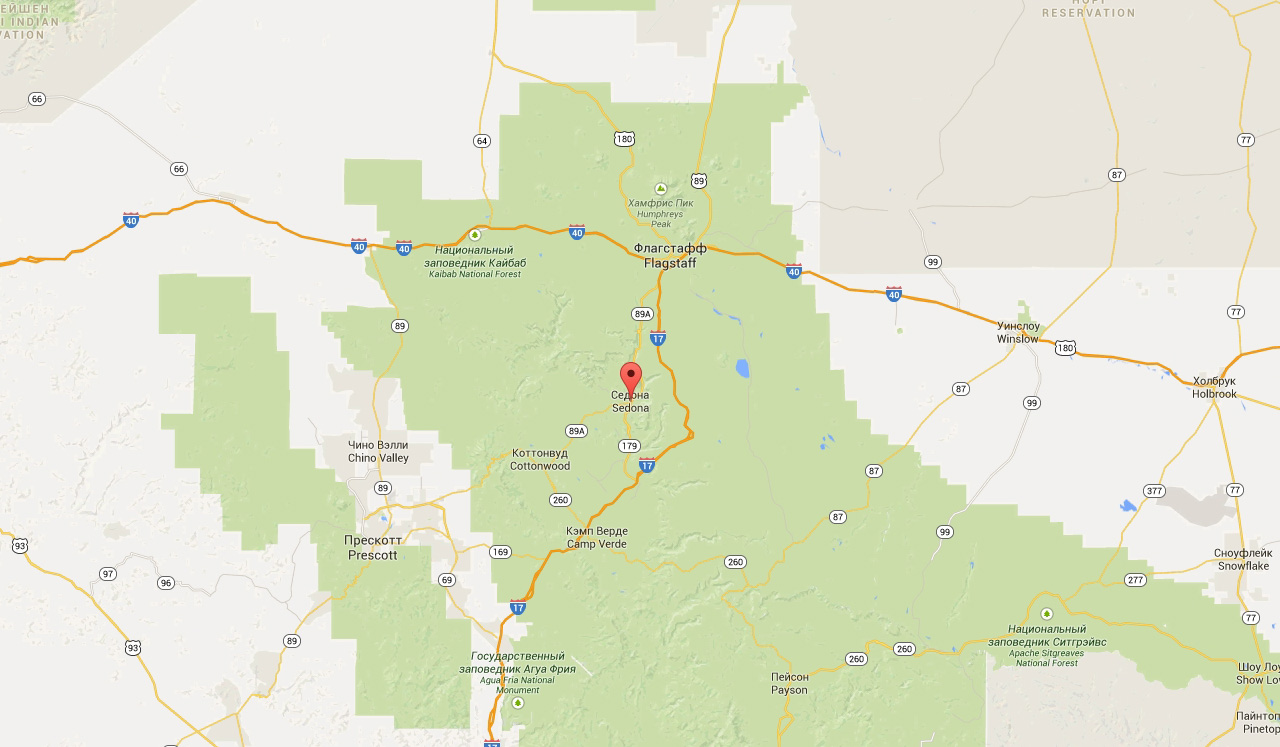
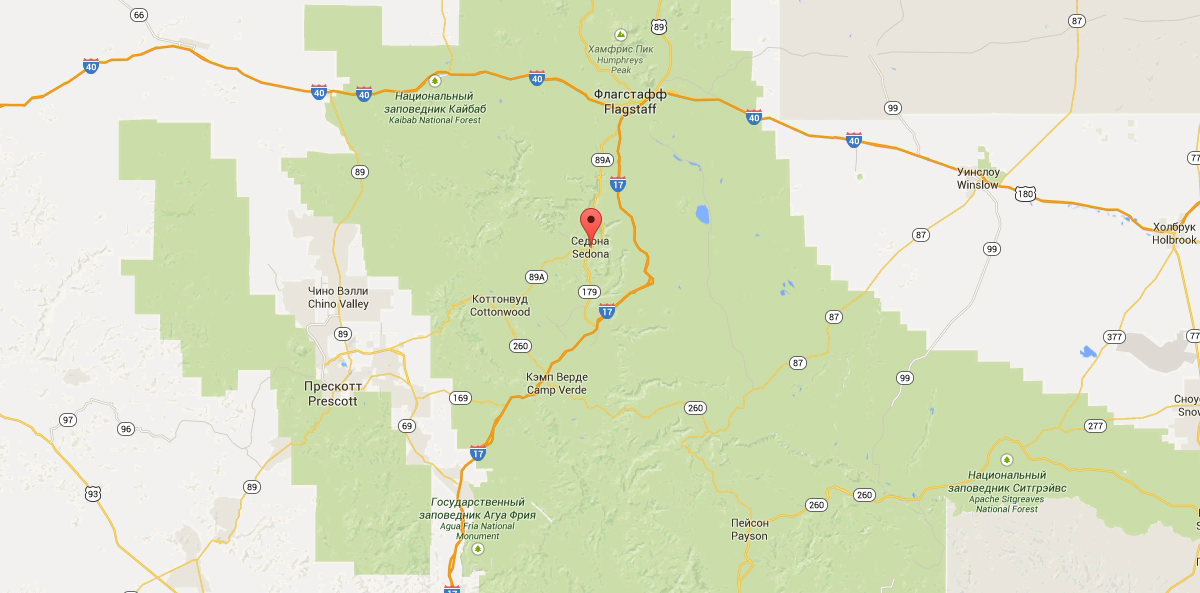
Добавил сетку контента

diff --git a/index.html b/index.html
@@ -44,55 +44,60 @@
           Седона - небольшой городок в Аризоне, заслуживающий большего!
         </b>
         <h2>Рассмотрим 5 причин, по  которым Седона круче, чем гранд каньон!</h2>
-        <!-- список причин -->
-        <ul class="features-list">
-          <li class="feature-item">
-            <h3>Настоящий городок</h3>
-            <span>№1</span>
-            <p>Седона — не аттракцион для туристов, там течет своя жизнь</p>
-            <!-- для резиновой вёрстки взял фото большего размера из макета *1200.psd -->
-            <img src="img/photo-city.jpg" width="800" height="401" alt="Фото города">
-          </li>
-          <li class="feature-item">
-            <h3>Там есть мост дьявола</h3>
-            <span>№2</span>
-            <p>Да, по нему можно пройти! Если конечно вы осмелитесь</p>
-            <img src="img/photo-bridge.jpg" width="800" height="400" alt="Фото моста дьявола">
-          </li>
-          <li class="feature-item">
-            <h3>Небольшая площадь</h3>
-            <span>№3</span>
-            <p>Все достопримечательности находятся очень близко</p>
-          </li>
-          <li class="feature-item">
-            <h3>Красивая дорога</h3>
-            <span>№4</span>
-            <p>Ехать в седону из лас-вегаса совсем не скучно!</p>
-          </li>
-          <li class="feature-item">
-            <h3>Мало туристов</h3>
-            <span>№5</span>
-            <p>Большинство едет в гранд каньон и толпится там</p>
-          </li>
-          <li>
-            <!-- использую вложенный список чтобы добавить дополнительные преимущества -->
-            <ul class="features-list-add">
-              <li class="feature-item-add">
-                <h3>Жилье</h3>
-                <p>Рекомендуем пожить в настоящем мотеле, все как в кино!</p>
-              </li>
-              <li class="feature-item-add">
-                <h3>Еда</h3>
-                <p>Всегда заказывайте фирменный бургер, вы не разочаруетесь!</p>
-              </li>
-              <li class="feature-item-add">
-                <h3>Сувениры</h3>
-                <p>Не только китайского, но и местного производства!</p>
-              </li>
-            </ul>
-            <!-- конец вложенного списка -->
-          </li>
-        </ul>
+        <div class="index-columns">
+          <!-- список причин -->
+          <ul class="features-list">
+            <li class="feature-item">
+              <div class="wrapper">
+                <h3>Настоящий городок</h3>
+                <span>№1</span>
+                <p>Седона — не аттракцион для туристов, там течет своя жизнь</p>
+              </div>
+              <img src="img/photo-city.jpg" width="800" height="256" alt="Фото города">
+            </li>
+            <li class="feature-item">
+              <div class="wrapper">
+                <h3>Там есть мост дьявола</h3>
+                <span>№2</span>
+                <p>Да, по нему можно пройти! Если конечно вы осмелитесь</p>
+              </div>
+              <img src="img/photo-bridge.jpg" width="800" height="256" alt="Фото моста дьявола">
+            </li>
+            <li class="feature-item">
+              <h3>Небольшая площадь</h3>
+              <span>№3</span>
+              <p>Все достопримечательности находятся очень близко</p>
+            </li>
+            <li class="feature-item">
+              <h3>Красивая дорога</h3>
+              <span>№4</span>
+              <p>Ехать в седону из лас-вегаса совсем не скучно!</p>
+            </li>
+            <li class="feature-item">
+              <h3>Мало туристов</h3>
+              <span>№5</span>
+              <p>Большинство едет в гранд каньон и толпится там</p>
+            </li>
+            <li>
+              <!-- использую вложенный список чтобы добавить дополнительные преимущества -->
+              <ul class="features-list-add">
+                <li class="feature-item-add">
+                  <h3>Жилье</h3>
+                  <p>Рекомендуем пожить в настоящем мотеле, все как в кино!</p>
+                </li>
+                <li class="feature-item-add">
+                  <h3>Еда</h3>
+                  <p>Всегда заказывайте фирменный бургер, вы не разочаруетесь!</p>
+                </li>
+                <li class="feature-item-add">
+                  <h3>Сувениры</h3>
+                  <p>Не только китайского, но и местного производства!</p>
+                </li>
+              </ul>
+              <!-- конец вложенного списка -->
+            </li>
+          </ul>
+        </div>
       </section>
       <!-- секция поиска гостиниц -->
       <section class="appointment">
@@ -129,7 +134,7 @@
       <section class="maps">
         <h2 class="visually-hidden">Карта Седоны</h2>
         <p>
-          <img src="img/map.jpg" width="1280" height="747" alt="карта Седоны">
+          <img src="img/map.jpg" width="1200" height="593" alt="карта Седоны">
         </p>
       </section>
     </main>

diff --git a/css/style.css b/css/style.css
@@ -171,6 +171,9 @@ a {
 /* фон для приветственной части */
 
 .page-intro {
+  min-height: 508px;
+  margin-bottom: 55px;
+
   background-color: #ffffff;
   background-image: url("../img/background-photo.jpg");
   background-position: top center;
@@ -186,6 +189,13 @@ a {
 /* добавляю стили для краткого описания города */
 
 .features-title {
+  display: block;
+
+  margin: 0 auto;
+  margin-bottom: 30px;
+
+  width: 440px;
+
   font-size: 21px;
   font-weight: 700;
   line-height: 26px;
@@ -195,15 +205,38 @@ a {
 /* задаю стили для заголовка преимуществ города */
 
 .features h2 {
+  margin-bottom: 55px;
+
+  text-align: center;
+
   font-size: 14px;
   font-weight: 400;
   line-height: 26px;
+}
+
+.index-columns {
+  display: flex;
+  justify-content: space-between;
+
+  padding: 0;
+  margin: 0;
+
+  margin-bottom: 50px;
+
 }
 
 /* убираю маркеры у списков */
 
 .features-list,
 .features-list-add {
+  display: flex;
+  flex-wrap: wrap;
+
+  text-align: center;
+
+  margin: 0;
+  padding: 0;
+
   list-style: none;
 }
 
@@ -233,7 +266,15 @@ a {
 /* задаю фон всех нумерованных преимуществ */
 
 .feature-item {
+  width: 400px;
+  min-height: 256px;
+
   background-color: #eeeeee;
+}
+
+.feature-item:first-child,
+.feature-item:first-child + li {
+  width: 1200px;
 }
 
 /* переопределяю фон и цвет текста для 1 и 2 преимущества */
@@ -248,6 +289,9 @@ a {
 /* задаю фон для дополнительных преимуществ */
 
 .feature-item-add {
+  width: 400px;
+  min-height: 256px;
+
   background-color: #ffffff;
 }
 
@@ -271,6 +315,36 @@ a {
   background-repeat: no-repeat;
 }
 
+/* делаю две колонки для первых двух преимуществ */
+
+.feature-item:first-child,
+.feature-item:first-child + li {
+  display: flex;
+  justify-content: space-between;
+}
+
+/* задаю ширину преимуществам с картинкой */
+
+.wrapper {
+  width: 400px;
+}
+
+/* ставлю картинку у второго преимущества перед ним */
+
+.feature-item:nth-child(2) .wrapper {
+  order: 1;
+}
+
+/* ставлю доп. преимущества после первого преимущества */
+
+.features-list li:first-child {
+  order: -2;
+}
+
+.features-list li:last-child {
+  order: -1;
+}
+
 /* задаю фон для раздела поиска гостиниц */
 
 .appointment {
@@ -282,6 +356,8 @@ a {
 /* задаю стиль для заголовка */
 
 .appointment h2 {
+  margin-bottom: 30px;
+
   font-size: 30px;
   font-weight: 700;
   line-height: 36px;
@@ -293,6 +369,8 @@ a {
 /* задаю стиль для вводного текста */
 
 .appointment-info {
+  margin-bottom: 50px;
+
   line-height: 24px;
 
   text-align: center;
@@ -333,6 +411,8 @@ a {
 /* задаю фон для карты */
 
 .maps {
+  width: 1200px;
+
   background-color: #ffffff;
 }
 
